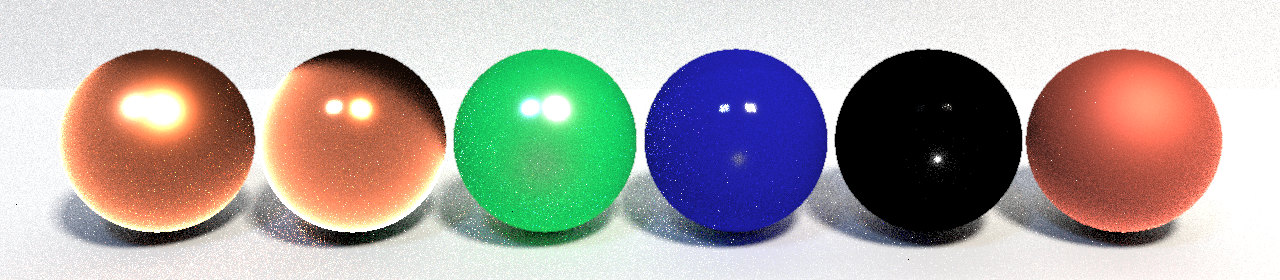
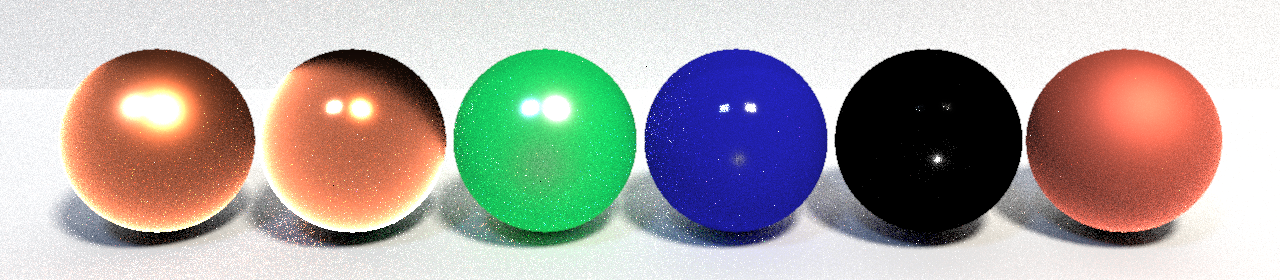
Fix gamma correction

diff --git a/src/raytracer.cpp b/src/raytracer.cpp
@@ -1554,13 +1554,9 @@ int RenderPixels(int heightChunkStart, int heightChunk, Scene& scene, Camera& ca
 				}
 
 				accumCol /= static_cast<float>(spp); // Average the samples for anti-aliasing
-				col = accumCol;
-				col.r = accumCol.r / (1.0f + accumCol.r);
-				col.g = accumCol.g / (1.0f + accumCol.g);
-				col.b = accumCol.b / (1.0f + accumCol.b);
-				col.r = glm::pow(accumCol.r, 1.0f / gamma);
-				col.g = glm::pow(accumCol.g, 1.0f / gamma);
-				col.b = glm::pow(accumCol.b, 1.0f / gamma);
+				col.r = glm::pow(std::max(accumCol.r, 0.0f), 1.0f / gamma);
+				col.g = glm::pow(std::max(accumCol.g, 0.0f), 1.0f / gamma);
+				col.b = glm::pow(std::max(accumCol.b, 0.0f), 1.0f / gamma);
 			}
 			int idx = (y * width + x) * 3;
 			pixels[idx + 0] = std::min(col.b * 255.0f, 255.0f);
